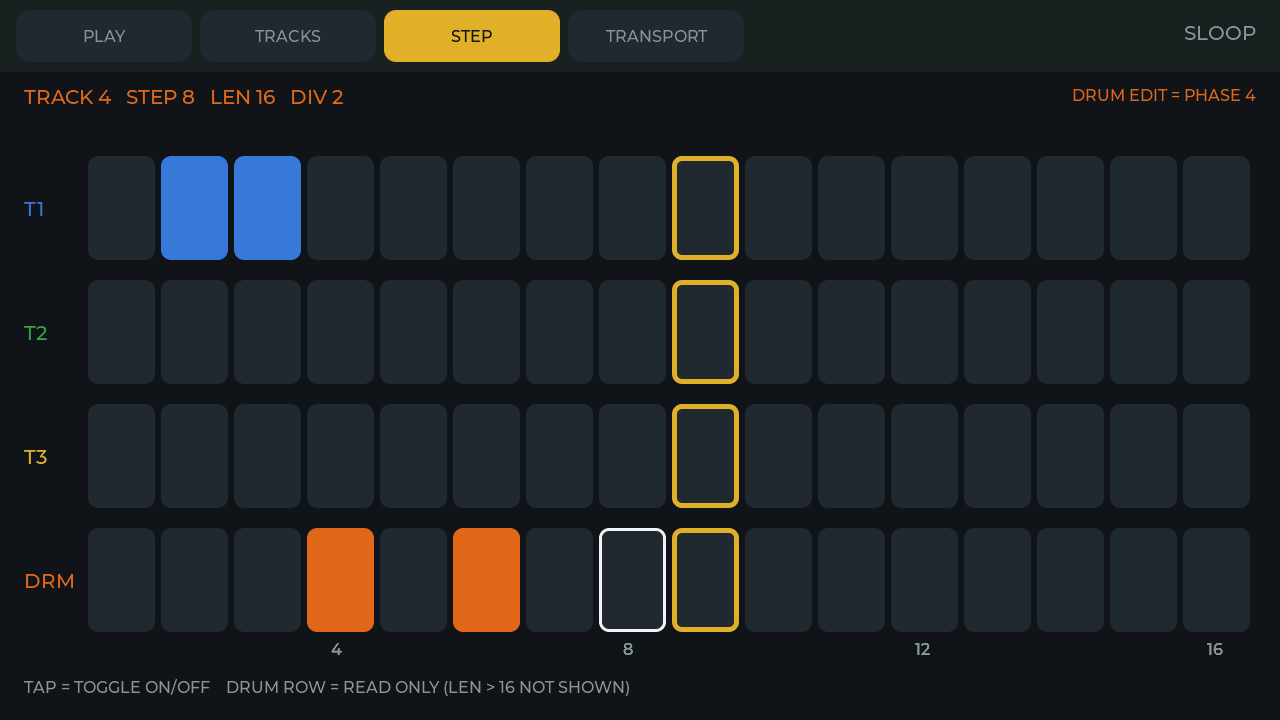
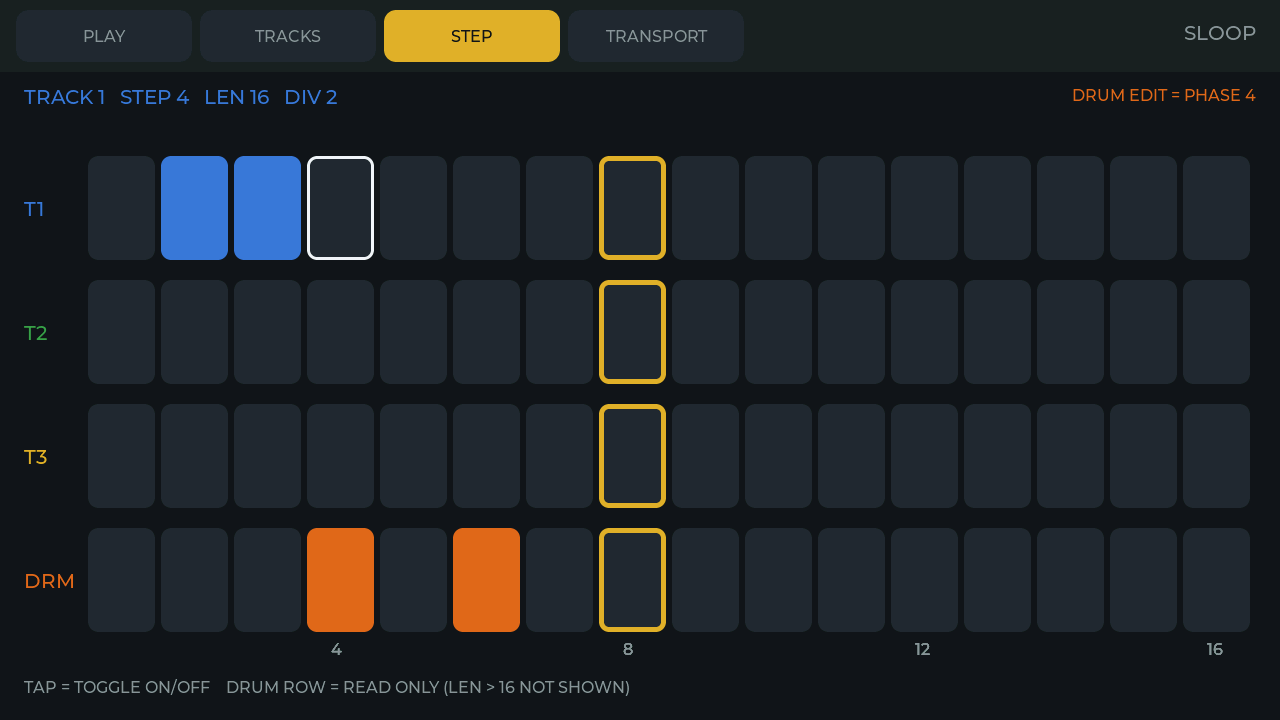
docs(.): 补登记 Task 5 评审修复（锁内采样）与证据重采
[Motivation]
修复提交 1e2d5bc 把 LVGL 池采样移入锁内，并改了鼓轨格点击的焦点行为；对应的证据
（transcript/门禁日志/三张 scratch 截屏）与 verification-log 的哈希、提交号必须同步，
否则登记册与文件对不上。

[Change_Set]
- 编辑 docs/dev/verify/3-mvp-2026-11-20/：task-5-gates.txt、task-5-boot-log.txt、
  task-5-final-transcript.txt、task-5-scratch-transcript.txt、task-5-screenshot-checks.txt
  重生成（受测提交改 1e2d5bc）；task-5-step-drum-msg.png、task-5-playhead-a/-b.png 重采；
  task-5-readme.md 标注修复版与三轮采集关系；SHA256SUMS 重算（27/27 校验通过）
- 新建 docs/dev/verify/3-mvp-2026-11-20/task-5-scratch-note.md（scratch 命令清单/探针代码/
  分支名/能证明与不能证明什么/终版差异表）
- 编辑 docs/dev/verification-log.md：Task 5 五行同步哈希与受测提交，新增「评审修复」行
- 编辑 docs/design/005-ui-architecture.md：LVGL 内存纪律补「池采样在 bsp_display_lock 内」

[Impact_AST]
- 仅文档与证据；无代码接口变化（代码修复见 1e2d5bc）

[Infra_State]
无（证据 PNG 约 170KB 入库；构建产物不入库）

diff --git a/docs/dev/verification-log.md b/docs/dev/verification-log.md
@@ -34,10 +34,11 @@
 | 2026-11-20 | 阶段 3 / Task 4 | 内存门禁 idle 内部堆 ≥60KB | ✅ 通过 | a25a52c | `3-mvp-2026-11-20/task-4-ui-mem-transcript.txt` ec0fd663… | 切页前与逐页切换后五次 `ENG MEM` internal_free=120519/120475/120443/120399/120355B；min_since_boot 99,956B；UI 前后 120,619B（LVGL 对象走内置 TLSF 池） |
 | 2026-11-20 | 阶段 3 / Task 4 | TRANSPORT 按钮回调接线（scratch 构型） | ✅ 通过（机器侧） | a25a52c | `3-mvp-2026-11-20/task-4-click-transcript.txt` 874e7b3d… | 临时 `UI CLICK` 向同一按钮对象派发 `LV_EVENT_CLICKED`（触摸松手事件）后撤除并重建终版：BPM 90→91→92→91→92（`STATE SNAP bpm`）；PLAY → STATE/ENG SNAP playing=1、pos=2；STOP → playing=0；`UI bogus` 打用法并退出码 1。物理触摸/TAP 注入留 Task 7 |
 | 2026-11-20 | 阶段 3 / Task 4 | 回归与工具门禁 | ✅ 通过 | a25a52c | `3-mvp-2026-11-20/task-4-gates.txt` cc8c322a… | host-test `ALL HOST TESTS PASSED (subset)`、182 golden 0 changed/0 gone、0 health/voice/CPU 超预算/crash；state-test 6 passed；`screenshot.py --selftest` 7 组通过；third_party manifest 233/233 OK、树未改 |
-| 2026-11-20 | 阶段 3 / Task 5 | §5.5 固件代码（构建 ×2 + 烧录 + 启动） | ✅ 通过 | 094c270 | `3-mvp-2026-11-20/task-5-gates.txt` 27906da9… + `task-5-boot-log.txt` 48edcdf3… | `build.sh --clean` 与第二遍均 exit 0、编译警告 0；第二遍 CMake 提示 0（首遍仅 §5.5 已豁免的 kconfig 提示对）；镜像 0x16df60；esptool 三段 `Hash of data verified`；启动 `App version: 094c270`，无 fatal/abort/backtrace/task_wdt；键盘 0x6D 就绪 |
-| 2026-11-20 | 阶段 3 / Task 5 | §5.4 UI 视觉（TRACKS/STEP + PLAY 回归，机器侧） | ✅ 通过（机器侧）；人眼复看 ⏳ | 094c270 | `task-5-tracks-sel1.png` 9c20f58d… / `task-5-step-empty.png` 70383618… / `task-5-play-regress.png` bde48cc8… + `task-5-screenshot-checks.txt` bff6ced0… | `--check` TRACKS 5/5、STEP 5/5、PLAY 4/4；区域分析：选中卡轨色 outline 6px + `UI_PANEL_SEL` 底（未选中 3px/`UI_PANEL`）、焦点格白描边、空网格/鼓轨暗行、页签选中随页移动；**PLAY 截屏与 Task 4 证据逐字节相同**（`bde48cc8…`，新增 95 个对象无回归）；三次独立采集 PNG SHA 完全一致（渲染确定性）；AI 无图像工具，可读性/观感人眼项挂账 |
-| 2026-11-20 | 阶段 3 / Task 5 | 步编辑闭环行为（scratch 点击注入构型） | ✅ 通过（机器侧） | 094c270 + scratch 构型（临时命令已撤除） | `task-5-scratch-transcript.txt` ecc74608… + `task-5-{tracks-sel4,step-two-on,step-tie,step-drum,step-drum-msg,playhead-a,playhead-b}.png` | 点空格：`ENG STEP` n=0/time=REST → n=1/note=60/vel=100/time=NOTE；再点：n=0/time=REST；点击同时写 focus（`STATE SNAP focus_track/focus_step`）；卡片点击 → `selected_track=3` 且卡 4 高亮；鼓轨点击不发写（`ENG SNAP` dstep 不变）且状态行 `DRUM EDIT = PHASE 4`；播放中 0.6s 播放头从第 4 列移到第 9 列；`ENG STEPW` 造 n=1/time=TIE 的步仍判「空」（与状态层共用 `state_step_is_on()`）；48 步全量 dump 仅预期两格 n=1。临时命令 `UI TAP/STATE PLAY/ENG STEPW/ENG DRUMSTEP/UI TOUCH` 均撤除后重建重烧 |
-| 2026-11-20 | 阶段 3 / Task 5 | 回归与工具门禁 | ✅ 通过 | 094c270 | `task-5-gates.txt` 27906da9… | host-test `ALL HOST TESTS PASSED (subset)`、182 golden 0 changed/0 gone、0 health/voice/CPU 超预算/crash；state-test 6 passed；`screenshot.py --selftest` 7 组；third_party manifest 233/233 OK、树未改 |
-| 2026-11-20 | 阶段 3 / Task 5 | 内存门禁（idle 内部堆 ≥60KB + LVGL 池水位） | ✅ 通过 | 094c270 | `task-5-final-transcript.txt` 6ae46d6b… + `task-5-boot-log.txt` 48edcdf3… | idle `internal_free` 119,539–119,771B、`internal_min` 99,252B（≥60KB）；**LVGL 池（64KB 内置 TLSF）40,312/59,660B ≈68%**——首版逐对象局部样式时 56,584/58,076B ≈97%（文本重分配即可能失败），改共享 `lv_style_t` + 对象合并后留 19KB 余量；池若扩大到 96KB 会撑爆内部 RAM（链接期 `.bss` 溢出实测），故不走改配置路线 |
+| 2026-11-20 | 阶段 3 / Task 5 | §5.5 固件代码（构建 ×2 + 烧录 + 启动） | ✅ 通过 | 1e2d5bc（初版 094c270） | `3-mvp-2026-11-20/task-5-gates.txt` 9af824ae… + `task-5-boot-log.txt` bde2dcd8… | `build.sh --clean` 与第二遍均 exit 0、编译警告 0；第二遍 CMake 提示 0（首遍仅 §5.5 已豁免的 kconfig 提示对）；镜像 0x16df60；esptool 三段 `Hash of data verified`；启动 `App version: 1e2d5bc`（首版 094c270），无 fatal/abort/backtrace/task_wdt；键盘 0x6D 就绪 |
+| 2026-11-20 | 阶段 3 / Task 5 | §5.4 UI 视觉（TRACKS/STEP + PLAY 回归，机器侧） | ✅ 通过（机器侧）；人眼复看 ⏳ | 1e2d5bc（初版 094c270） | `task-5-tracks-sel1.png` 9c20f58d… / `task-5-step-empty.png` 70383618… / `task-5-play-regress.png` bde48cc8… + `task-5-screenshot-checks.txt` 64c8d48a… | `--check` TRACKS 5/5、STEP 5/5、PLAY 4/4；区域分析：选中卡轨色 outline 6px + `UI_PANEL_SEL` 底（未选中 3px/`UI_PANEL`）、焦点格白描边、空网格/鼓轨暗行、页签选中随页移动；**PLAY 截屏与 Task 4 证据逐字节相同**（`bde48cc8…`，新增 95 个对象无回归）；多次独立采集（094c270 两轮 + 1e2d5bc 修复轮）PNG SHA 完全一致（渲染确定性）；AI 无图像工具，可读性/观感人眼项挂账 |
+| 2026-11-20 | 阶段 3 / Task 5 | 步编辑闭环行为（scratch 点击注入构型） | ✅ 通过（机器侧） | 1e2d5bc + scratch 构型（临时命令已撤除） | `task-5-scratch-transcript.txt` 8b31bd7f… + `task-5-scratch-note.md` 0d651667… + `task-5-{tracks-sel4,step-two-on,step-tie,step-drum,step-drum-msg,playhead-a,playhead-b}.png` | 点空格：`ENG STEP` n=0/time=REST → n=1/note=60/vel=100/time=NOTE；再点：n=0/time=REST；点击同时写 focus（`STATE SNAP focus_track/focus_step`）；卡片点击 → `selected_track=3` 且卡 4 高亮；鼓轨点击不发写（`ENG SNAP` dstep 不变）且状态行 `DRUM EDIT = PHASE 4`；播放中 0.6s 播放头从第 4 列移到第 9 列；`ENG STEPW` 造 n=1/time=TIE 的步仍判「空」（与状态层共用 `state_step_is_on()`）；48 步全量 dump 仅预期两格 n=1。临时命令 `UI TAP/STATE PLAY/ENG STEPW/ENG DRUMSTEP/UI TOUCH` 均撤除后重建重烧 |
+| 2026-11-20 | 阶段 3 / Task 5 | 回归与工具门禁 | ✅ 通过 | 1e2d5bc（初版 094c270） | `task-5-gates.txt` 9af824ae… | host-test `ALL HOST TESTS PASSED (subset)`、182 golden 0 changed/0 gone、0 health/voice/CPU 超预算/crash；state-test 6 passed；`screenshot.py --selftest` 7 组；third_party manifest 233/233 OK、树未改 |
+| 2026-11-20 | 阶段 3 / Task 5 | 内存门禁（idle 内部堆 ≥60KB + LVGL 池水位） | ✅ 通过 | 1e2d5bc（初版 094c270） | `task-5-final-transcript.txt` 35b61269… + `task-5-boot-log.txt` bde2dcd8… | 运行时 `ENG MEM` idle `internal_free` 119,539–119,815B、`internal_min`（自启动最低水位，非 idle）99,252B（≥60KB）；**LVGL 池（64KB 内置 TLSF）40,312/59,660B ≈68%**——首版逐对象局部样式时 56,584/58,076B ≈97%（文本重分配即可能失败），改共享 `lv_style_t` + 对象合并后留 19KB 余量；池若扩大到 96KB 会撑爆内部 RAM（链接期 `.bss` 溢出实测），故不走改配置路线 |
+| 2026-11-20 | 阶段 3 / Task 5 评审修复 | §5.5 固件代码（构建 ×2 + 烧录 + 启动 + 行为复核） | ✅ 通过 | 1e2d5bc | `task-5-gates.txt` 9af824ae… + `task-5-boot-log.txt` bde2dcd8… + `task-5-scratch-note.md` 0d651667… | 根因=`sloop_ui_start()` 在 `bsp_display_unlock()` 之后遍历 LVGL TLSF 池（30ms 定时器已创建，LVGL 任务随时分配）；移入锁内后读数不变 40,312/59,660B。同轮修：鼓轨格点击不再改 focus（scratch 断言 `before=('0','3') after=('0','3') PASS`）、顶栏首帧强制刷新、列号/内存注释与 `CMD_SELECT_TRACK` 焦点副作用入契约。build×2 零警告、三段 Hash verified、启动 `App version: 1e2d5bc` 无 fatal；A 组截屏（tracks-sel1 9c20f58d/step-empty 70383618/play-regress bde48cc8）与修复前**逐字节相同**；scratch 组重采 drum-msg 7d15bfba、playhead-a 65f742ba、playhead-b f1156f0b 并整份 transcript 重录；host-test / state-test / `--selftest` / manifest 233/233 全绿 |
 > 证据相对路径均以 `docs/dev/verify/` 为根；SHA256 为 16 位前缀，全值见各阶段目录的 `SHA256SUMS`（阶段 1：`1-bringup-2026-11-19/SHA256SUMS`；阶段 2：`2-engine-2026-11-20/SHA256SUMS`；阶段 3 起：`3-mvp-2026-11-20/SHA256SUMS`）。
 > 「提交号」列＝**受测固件提交**（如 8f8e01b=键盘代码、70b75ed=触摸代码、0f6fbf5=阶段 1 终版）；证据晋升与登记本身发生在其后的 docs 提交（44254a2 及终审修复提交），两列所指不同属正常。

diff --git a/docs/dev/verify/3-mvp-2026-11-20/task-5-scratch-note.md b/docs/dev/verify/3-mvp-2026-11-20/task-5-scratch-note.md
@@ -1,0 +1,63 @@
+# Task 5 scratch 注入构型说明（非终版构型的截屏出处）
+
+日期：2026-11-20 ｜ 终版受测固件：`1e2d5bc`（评审修复版；首版为 `094c270`）
+
+## 为什么有一批截屏不是终版固件拍的
+
+Task 5 时点 `TAP`（Task 7）与 `KEY`（Task 6）注入尚未落地，物理触摸点击无法机器触发。
+要让「选中轨 4 / 两个相邻亮格 / 播放头 / 鼓轨聚合 / TIE 步判空」这些**交互态**出现在
+PNG 里，必须有一条能从串口构造状态的路径。于是临时加了一组只用于证据采集的命令，
+烧录 scratch 构型采集，随后**完全撤除**（`grep 'SCRATCH(Task 5)' firmware/{main,components}` 为空），
+在终版上重新 `build.sh --clean`×2 + 烧录并重采终版截屏。
+
+评审修复轮（`1e2d5bc`：鼓轨格点击不再改焦点）后又重建 scratch 构型、重采了受影响的三张图
+（`step-drum-msg`、`playhead-a`、`playhead-b`）与整份 transcript，并加了一行程序化断言：
+`ASSERT drum tap 不改焦点: before=('0','3') after=('0','3') -> PASS`。
+
+## 临时命令清单（全部已撤除）
+
+| 命令 | 实现 | 验证的是什么 |
+|---|---|---|
+| `UI TAP card <0..3>` | `lv_obj_send_event(卡片对象, LV_EVENT_CLICKED, NULL)` | 卡片的 `LV_EVENT_CLICKED` 回调 → `CMD_SELECT_TRACK` → 选中/焦点轨 |
+| `UI TAP step <r> <c>` | `lv_obj_send_event(格子对象, LV_EVENT_CLICKED, NULL)` | 格子的 `LV_EVENT_CLICKED` 回调 → `state_set_focus` + `CMD_TOGGLE_STEP`（含鼓轨只读分支） |
+| `STATE PLAY` / `STATE STOP` | `state_apply({CMD_PLAY/CMD_STOP})` | 与 TRANSPORT 按钮同一条编辑命令路径（走带 → 播放头） |
+| `ENG STEPW <k> <i> <n> <time>` | `sloop_core_read_step` 改 n/time 后 `write_step` | 构造 TIE 步（n=1,time=1），验证网格「亮」判定与状态层同口径 |
+| `ENG DRUMSTEP <idx> <lane>` | 直接置 `TDRUM->dstep[idx].on` 位 | 鼓轨聚合行渲染（MVP 无鼓步编辑入口，见下） |
+| `UI TOUCH ON\|OFF` | `lv_indev_enable(触摸 indev, …)` | 采集期隔离触摸面板的幽灵按压（见 `task-5-readme.md`「现场噪声」/ DI-10） |
+
+探针代码：`sloop_ui_debug_click()`（`ui.c`）→ `page_tracks_debug_click()` / `page_step_debug_click()`
+（各页），`sloop_core_debug_drum_step()`（`selftest.c`），`app_display_touch_debug_enable()`（`display.c`）。
+scratch 分支名 `tmp/task5-scratch`（首轮）与 `tmp/task5-scratch2`（评审修复轮），两次都在采集后删除
+（`git branch` 中不存在）。
+
+## 这批截屏能证明什么、不能证明什么
+
+- **能**证明：控件回调接线（`LV_EVENT_CLICKED` 就是触摸松手时 LVGL 派发的事件）、
+  `CMD_SELECT_TRACK`/`CMD_TOGGLE_STEP` 的引擎与状态层效果、脏检查刷新、播放头/焦点/鼓轨聚合的
+  渲染与配色。
+- **不能**证明：**触摸命中几何**。`UI TAP` 是直接向对象派发事件，没有经过触摸坐标 →
+  LVGL 命中测试（滚动容器、重叠对象、圆角边缘、坐标旋转）；也没有覆盖按压时序（长按、
+  滑动误触、双击）。这些必须由 Task 7 的 `TAP <x> <y>`（坐标级注入）与真机人测覆盖。
+- 采集时触摸 indev 被临时关闭，因此这批截屏**不代表**触摸可用性。
+
+## 与终版构型的行为差异
+
+| 面 | 终版（`1e2d5bc`） | scratch 构型 |
+|---|---|---|
+| 点击注入 | 无（物理触摸或 Task 7 `TAP`） | `UI TAP card/step` |
+| 走带注入 | 无（TRANSPORT 按钮或 Task 6 `space`） | `STATE PLAY/STOP` |
+| 鼓步构造 | 仅引擎 REC 录音路径（`seq.c rec_hit`） | `ENG DRUMSTEP` 直接置 dstep 位 |
+| 步字段构造 | 无 | `ENG STEPW`（只改 n/time） |
+| 触摸 indev | 常开 | 采集期 `UI TOUCH OFF` |
+| 鼓轨格点击后的焦点 | 不变（焦点轨仍由合成轨行决定） | 不变（与终版同一代码路径） |
+| UI 页代码 | **同一份**（scratch 只加探针，不改渲染逻辑） | 同左 |
+| LVGL 池占用（就绪行） | 40,312/59,660B | 39,500–40,312/59,660B（文本长度差异，同一量级） |
+
+## 相关文件
+
+- 终版截屏：`task-5-tracks-sel1.png`、`task-5-step-empty.png`、`task-5-play-regress.png`
+- scratch 截屏：`task-5-tracks-sel4.png`、`task-5-step-two-on.png`、`task-5-step-tie.png`、
+  `task-5-step-drum.png`、`task-5-step-drum-msg.png`、`task-5-playhead-a.png`、`task-5-playhead-b.png`
+- transcript：`task-5-final-transcript.txt`（终版）、`task-5-scratch-transcript.txt`（scratch）
+- 抽检/判读：`task-5-screenshot-checks.txt`（A=终版，B=scratch）
+- DI-10（幽灵按压未定性）：`docs/deferred-issues.md`

diff --git a/docs/design/005-ui-architecture.md b/docs/design/005-ui-architecture.md
@@ -36,7 +36,7 @@ LVGL 任务上下文）；UI 启动失败回退 bring-up 测试图。idle 内部
   `CMD_TOGGLE_STEP`（鼓轨第 4 行只读，展示 `dstep[i].on` 聚合，点击写状态行提示不发命令）。
 - **LVGL 内存纪律**：对象共用静态 `lv_style_t`（不给对象加局部样式）+ 卡片内文本合并，把 64KB 内置
   TLSF 池占用从首版的 ≈97%（文本重分配即可能失败）压到 ≈68%；池扩容到 96KB 会撑爆内部 RAM（实测
-  链接期 `.bss` 溢出），故不走改配置路线。`sloop_ui_start()` 就绪行固定打印池占用。
+  链接期 `.bss` 溢出），故不走改配置路线。`sloop_ui_start()` 就绪行固定打印池占用，且该采样（`lv_mem_monitor`）在 `bsp_display_lock` 内执行——30ms 定时器此时已创建，无锁遍历 TLSF 池会读到撕裂的块结构。
 
 ## 后果
 

diff --git a/docs/dev/verify/3-mvp-2026-11-20/task-5-readme.md b/docs/dev/verify/3-mvp-2026-11-20/task-5-readme.md
@@ -1,8 +1,9 @@
 # 阶段 3 / Task 5 证据（TRACKS + STEP 两屏，步编辑闭环）
 
-日期：2026-11-20 ｜ 受测固件提交：`094c270`（`feat(components/sloop_ui): TRACKS 与 STEP 页（步格编辑闭环）`）
+日期：2026-11-20 ｜ 受测固件提交：`1e2d5bc`（评审修复版：`lv_mem_monitor` 移入锁内 + 文案/焦点清理；首版为 `094c270` = `feat(components/sloop_ui): TRACKS 与 STEP 页（步格编辑闭环）`）
+三轮采集的 A 组 PNG 逐字节相同（渲染与锁修复无关）；scratch 组中 `step-drum-msg`/`playhead-a`/`playhead-b` 因「鼓轨点击不再改焦点」而重采，见 `task-5-scratch-note.md`。
 
-## A. 终版构型（094c270，scratch 注入已撤除，clean 树构建 + 烧录）
+## A. 终版构型（1e2d5bc，scratch 注入已撤除，clean 树构建 + 烧录）
 
 | 文件 | 内容 |
 |---|---|
